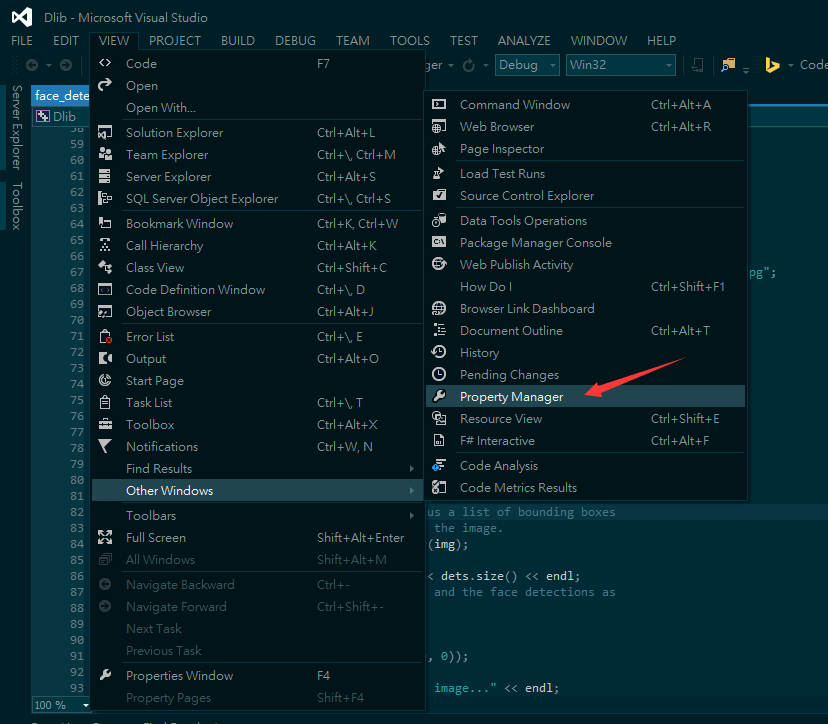
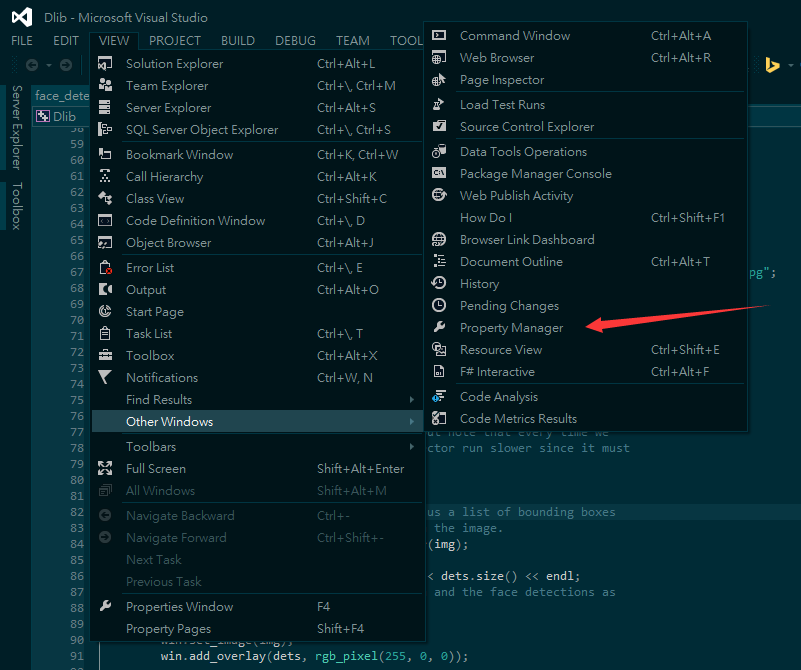
update dlib

diff --git a/qa/dlib.md b/qa/dlib.md
@@ -20,6 +20,12 @@
 - In this step, you'll need to find out the Property Manager. Here you can see the screen shot of both English Version and Chinese one.
 	- en: <img src="./dlib_2.png">
 	- zh: <img src="./dlib_1.png">
+- And then, you'll see that the manager will appear in your right bars, maybe when it's not for you, you can find it in other bars.
+	- en: <img src="./dlib_4.png">
+	- zh: <img src="./dlib_3.png">
+- Open the project, you'll see two directory named **Debug|Win32** and **Release|Win32**. So in the next step, you should click each with right button of your mouse to **Add New Project Property Sheet**.
+	- en: <img src="./dlib_6.png">
+	- zh: <img src="./dlib_5.png">
 
 
 
